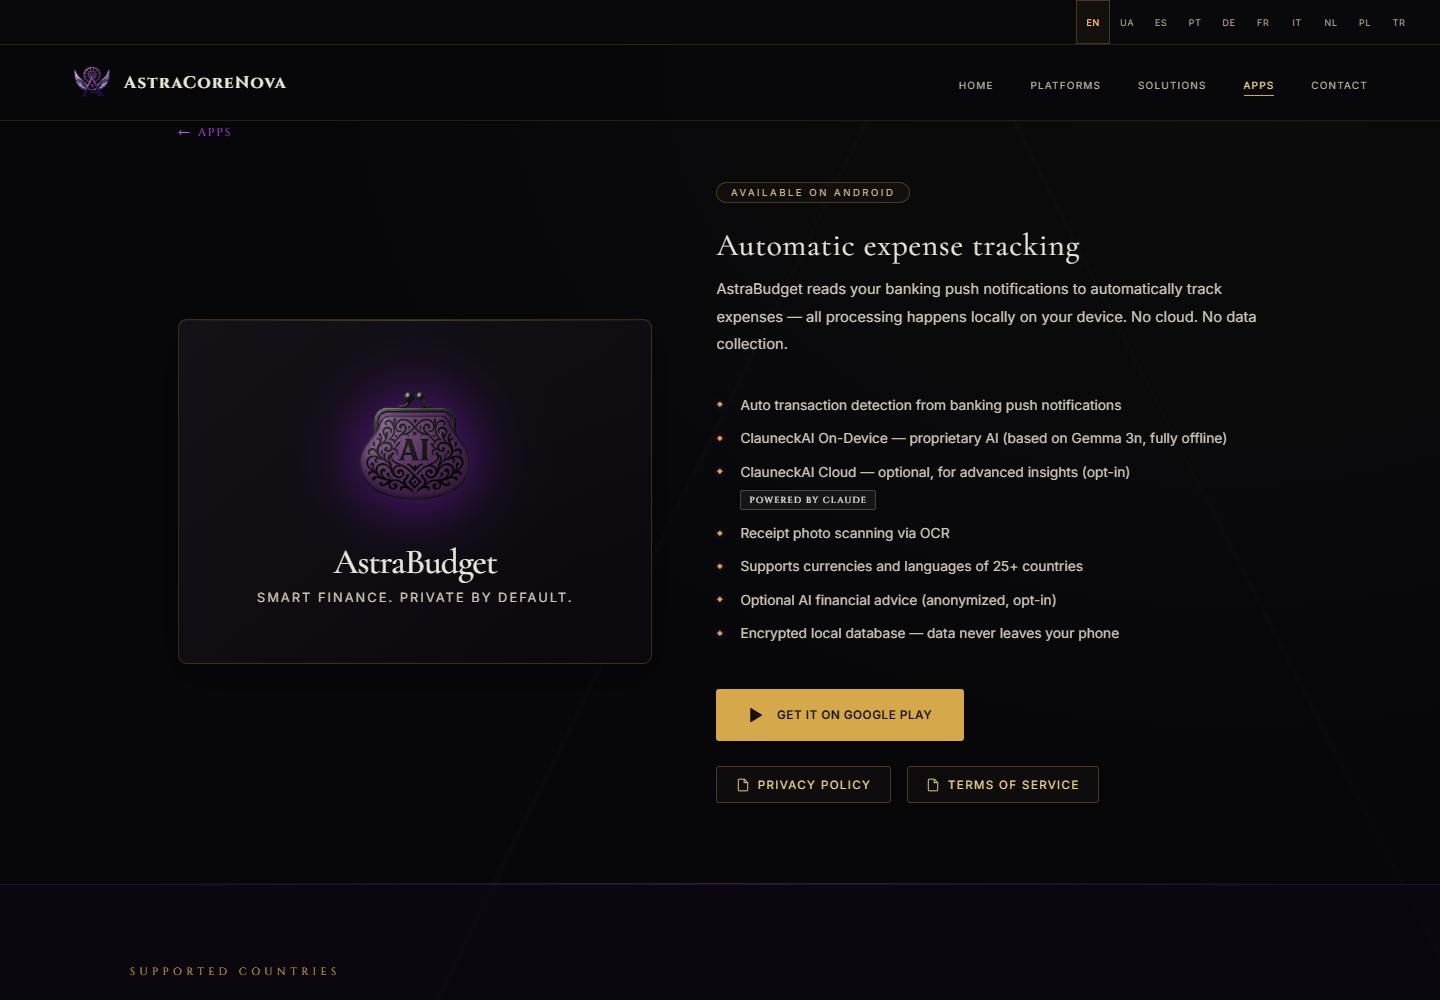
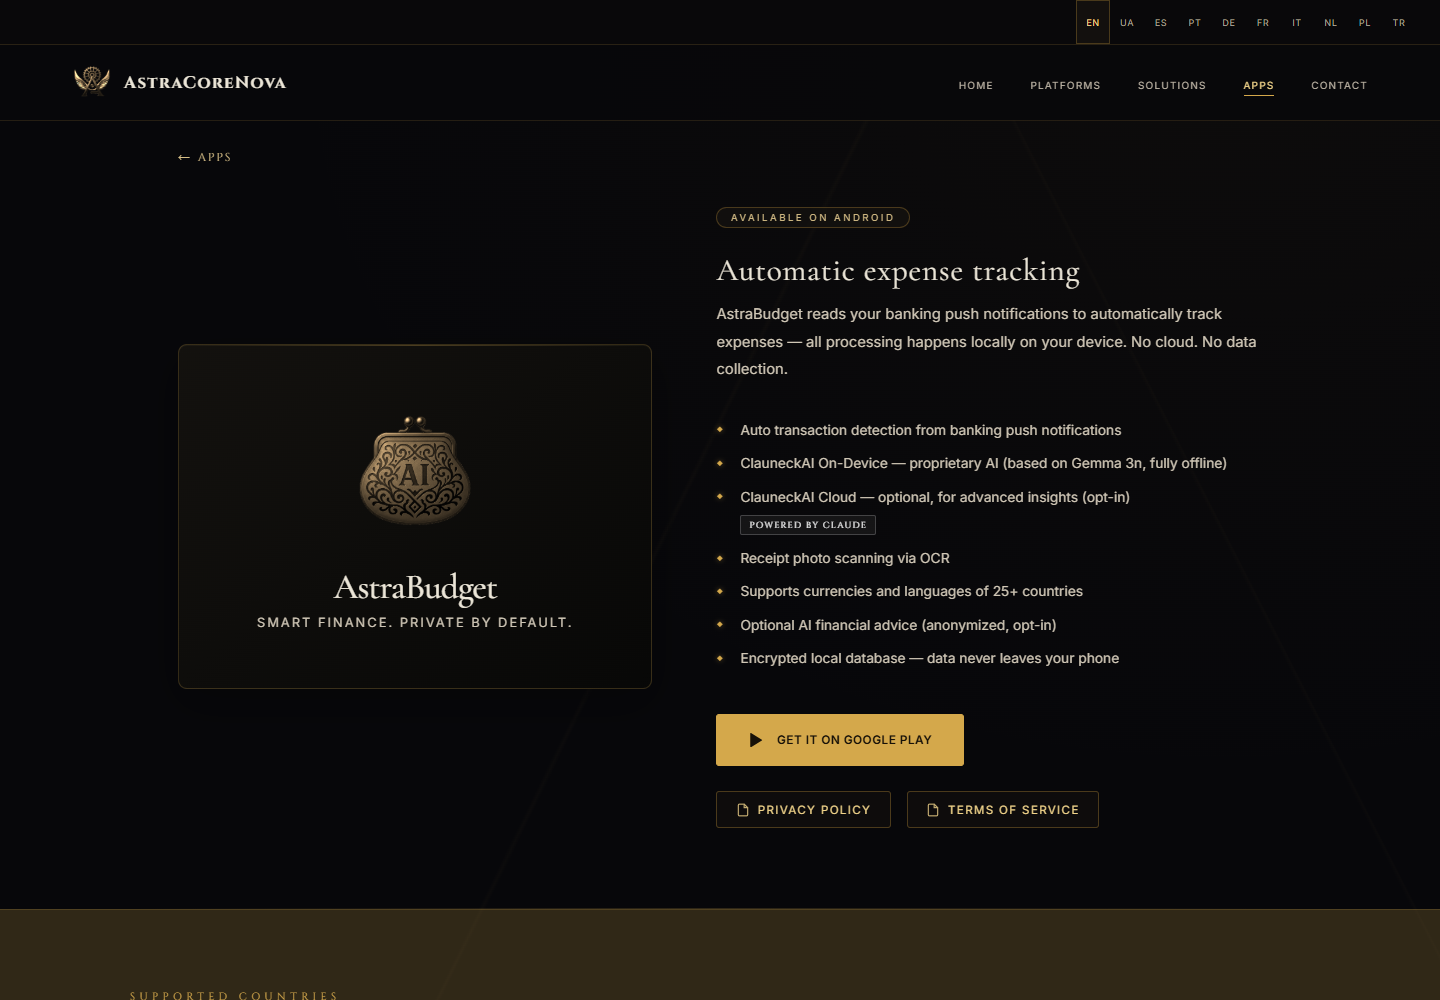
Finish antique gold palette and remove decorative hero emblem

diff --git a/site-style/legacy-gold.css b/site-style/legacy-gold.css
@@ -1,0 +1,93 @@
+/* Generated from original styles: color overrides only. Original files and legal content stay unchanged. */
+:root{--purple:#d4a84b!important;--glass:rgba(212, 168, 75, 0.65)!important;--glass-edge:rgba(212, 168, 75, 0.4)!important}
+.neb1{background-image:radial-gradient(circle, rgba(212, 168, 75, 0.1), transparent 70%)!important}
+.neb3{background-image:radial-gradient(rgba(212, 168, 75, 0.15), transparent 70%)!important}
+.lb:hover{border-top-color:rgba(212, 168, 75, 0.5)!important;border-right-color:rgba(212, 168, 75, 0.5)!important;border-bottom-color:rgba(212, 168, 75, 0.5)!important;border-left-color:rgba(212, 168, 75, 0.5)!important}
+.lb.on{border-top-color:rgba(212, 168, 75, 0.8)!important;border-right-color:rgba(212, 168, 75, 0.8)!important;border-bottom-color:rgba(212, 168, 75, 0.8)!important;border-left-color:rgba(212, 168, 75, 0.8)!important;background-color:rgba(212, 168, 75, 0.15)!important;text-shadow:rgba(212, 168, 75, 0.5) 0px 0px 8px!important}
+.nlogo img{filter:drop-shadow(rgba(212, 168, 75, 0.4) 0px 0px 12px)!important}
+.nlogo:hover img{filter:drop-shadow(rgba(212, 168, 75, 0.8) 0px 0px 20px)!important}
+.nlogo-t{text-shadow:rgba(212, 168, 75, 0.4) 0px 0px 18px!important}
+.nlinks a::after{background-color:rgba(212, 168, 75, 0.8)!important;box-shadow:rgba(212, 168, 75, 0.6) 0px 0px 8px!important}
+.mobile-menu a:hover{text-shadow:rgba(212, 168, 75, 0.6) 0px 0px 15px!important}
+.c-dark{background-color:rgba(212, 168, 75, 0.5)!important;border-top-color:rgba(212, 168, 75, 0.3)!important;border-right-color:rgba(212, 168, 75, 0.3)!important;border-bottom-color:rgba(212, 168, 75, 0.3)!important;border-left-color:rgba(212, 168, 75, 0.3)!important}
+.c-mid{background-color:rgba(212, 168, 75, 0.45)!important}
+.c-glow{background-color:rgba(212, 168, 75, 0.55)!important}
+.c-light{background-color:rgba(212, 168, 75, 0.4)!important}
+.hero-badge{border-top-color:rgba(212, 168, 75, 0.5)!important;border-right-color:rgba(212, 168, 75, 0.5)!important;border-bottom-color:rgba(212, 168, 75, 0.5)!important;border-left-color:rgba(212, 168, 75, 0.5)!important;background-color:rgba(212, 168, 75, 0.05)!important}
+.hero-badge .dot{background-color:rgba(212, 168, 75, 1)!important;box-shadow:rgba(212, 168, 75, 1) 0px 0px 10px!important}
+.hero-h .em{background-image:linear-gradient(135deg, rgb(255, 255, 255), rgba(212, 168, 75, 0.8))!important}
+.btn-p{background-image:linear-gradient(135deg, rgba(212, 168, 75, 0.95), rgba(212, 168, 75, 0.95))!important;border-top-color:rgba(212, 168, 75, 0.6)!important;border-right-color:rgba(212, 168, 75, 0.6)!important;border-bottom-color:rgba(212, 168, 75, 0.6)!important;border-left-color:rgba(212, 168, 75, 0.6)!important;box-shadow:rgba(212, 168, 75, 0.4) 0px 0px 30px!important}
+.btn-p:hover{background-image:linear-gradient(135deg, rgba(212, 168, 75, 0.95), rgba(212, 168, 75, 0.95))!important;box-shadow:rgba(212, 168, 75, 0.6) 0px 0px 50px!important;border-top-color:rgba(212, 168, 75, 0.8)!important;border-right-color:rgba(212, 168, 75, 0.8)!important;border-bottom-color:rgba(212, 168, 75, 0.8)!important;border-left-color:rgba(212, 168, 75, 0.8)!important}
+.btn-g{border-top-color:rgba(212, 168, 75, 0.4)!important;border-right-color:rgba(212, 168, 75, 0.4)!important;border-bottom-color:rgba(212, 168, 75, 0.4)!important;border-left-color:rgba(212, 168, 75, 0.4)!important;background-color:rgba(212, 168, 75, 0.5)!important}
+.btn-g:hover{border-top-color:rgba(212, 168, 75, 0.7)!important;border-right-color:rgba(212, 168, 75, 0.7)!important;border-bottom-color:rgba(212, 168, 75, 0.7)!important;border-left-color:rgba(212, 168, 75, 0.7)!important;background-color:rgba(212, 168, 75, 0.7)!important;box-shadow:rgba(212, 168, 75, 0.3) 0px 0px 20px!important}
+.div{background-image:linear-gradient(to right, transparent, rgba(212, 168, 75, 0.3), transparent)!important}
+.eyebrow{color:rgba(212, 168, 75, 1)!important}
+.glass{box-shadow:rgba(0, 0, 0, 0.8) 0px 8px 32px, rgba(212, 168, 75, 0.1) 0px 0px 15px inset!important}
+.glass::before{background-image:linear-gradient(to right, transparent, rgba(212, 168, 75, 0.5), transparent)!important}
+.glass::after{background-image:radial-gradient(circle at 50% -10%, rgba(212, 168, 75, 0.12), transparent 60%)!important}
+.pf:hover{border-top-color:rgba(212, 168, 75, 0.7)!important;border-right-color:rgba(212, 168, 75, 0.7)!important;border-bottom-color:rgba(212, 168, 75, 0.7)!important;border-left-color:rgba(212, 168, 75, 0.7)!important;box-shadow:rgba(0, 0, 0, 0.9) 0px 12px 40px, rgba(212, 168, 75, 0.25) 0px 0px 25px inset!important}
+.pf svg{filter:drop-shadow(rgba(212, 168, 75, 0.6) 0px 0px 12px)!important}
+.pf .emoji-icon{filter:grayscale(100%) contrast(150%) brightness(120%) drop-shadow(rgba(212, 168, 75, 0.6) 0px 0px 12px)!important}
+.pf-note b{text-shadow:rgba(212, 168, 75, 0.4) 0px 0px 8px!important}
+.sol:hover{border-top-color:rgba(212, 168, 75, 0.7)!important;border-right-color:rgba(212, 168, 75, 0.7)!important;border-bottom-color:rgba(212, 168, 75, 0.7)!important;border-left-color:rgba(212, 168, 75, 0.7)!important;box-shadow:rgba(0, 0, 0, 0.9) 0px 12px 40px, rgba(212, 168, 75, 0.15) 0px 0px 25px inset!important}
+.sol-tag{color:rgba(212, 168, 75, 1)!important}
+.sol-list li::before{color:rgba(212, 168, 75, 1)!important}
+.ai-points li::before{border-top-color:rgba(212, 168, 75, 1)!important;border-right-color:rgba(212, 168, 75, 1)!important;border-bottom-color:rgba(212, 168, 75, 1)!important;border-left-color:rgba(212, 168, 75, 1)!important;box-shadow:rgba(212, 168, 75, 0.5) 0px 0px 10px!important}
+.ai-orb-ring-1{border-top-color:rgba(212, 168, 75, 0.5)!important;border-right-color:rgba(212, 168, 75, 0.5)!important;border-bottom-color:rgba(212, 168, 75, 0.5)!important;border-left-color:rgba(212, 168, 75, 0.5)!important}
+.ai-orb-ring-2{filter:drop-shadow(rgba(212, 168, 75, 0.4) 0px 0px 10px)!important}
+.ai-orb-ring-2 polygon{stroke:rgba(212, 168, 75, 0.5)!important}
+.ai-orb-ring-3{border-top-color:rgba(212, 168, 75, 0.2)!important;border-right-color:rgba(212, 168, 75, 0.2)!important;border-bottom-color:rgba(212, 168, 75, 0.2)!important;border-left-color:rgba(212, 168, 75, 0.9)!important}
+.ai-orb-core{background-image:radial-gradient(circle at 40% 40%, rgba(212, 168, 75, 0.9), rgba(212, 168, 75, 0.95))!important;border-top-color:rgba(212, 168, 75, 0.7)!important;border-right-color:rgba(212, 168, 75, 0.7)!important;border-bottom-color:rgba(212, 168, 75, 0.7)!important;border-left-color:rgba(212, 168, 75, 0.7)!important;box-shadow:rgba(212, 168, 75, 0.6) 0px 0px 60px, rgba(0, 0, 0, 0.9) 0px 0px 25px inset!important}
+.ai-orb-core span{text-shadow:rgba(255, 255, 255, 0.9) 0px 0px 15px, rgba(212, 168, 75, 1) 0px 0px 10px!important}
+.vcard:hover{border-top-color:rgba(212, 168, 75, 0.7)!important;border-right-color:rgba(212, 168, 75, 0.7)!important;border-bottom-color:rgba(212, 168, 75, 0.7)!important;border-left-color:rgba(212, 168, 75, 0.7)!important;box-shadow:rgba(0, 0, 0, 0.9) 0px 12px 40px, rgba(212, 168, 75, 0.15) 0px 0px 25px inset!important}
+.vicon{stroke:rgba(212, 168, 75, 1)!important;filter:drop-shadow(rgba(212, 168, 75, 0.4) 0px 0px 8px)!important}
+.pnum{color:rgba(212, 168, 75, 1)!important;text-shadow:rgba(212, 168, 75, 0.5) 0px 0px 28px!important}
+.cemail{border-top-color:rgba(212, 168, 75, 0.5)!important;border-right-color:rgba(212, 168, 75, 0.5)!important;border-bottom-color:rgba(212, 168, 75, 0.5)!important;border-left-color:rgba(212, 168, 75, 0.5)!important;background-color:rgba(212, 168, 75, 0.4)!important;box-shadow:rgba(212, 168, 75, 0.2) 0px 0px 15px!important}
+.cemail:hover{background-color:rgba(212, 168, 75, 0.6)!important;border-top-color:rgba(212, 168, 75, 0.7)!important;border-right-color:rgba(212, 168, 75, 0.7)!important;border-bottom-color:rgba(212, 168, 75, 0.7)!important;border-left-color:rgba(212, 168, 75, 0.7)!important;box-shadow:rgba(212, 168, 75, 0.4) 0px 0px 25px!important}
+.inp{background-color:rgba(212, 168, 75, 0.5)!important;border-top-color:rgba(212, 168, 75, 0.4)!important;border-right-color:rgba(212, 168, 75, 0.4)!important;border-bottom-color:rgba(212, 168, 75, 0.4)!important;border-left-color:rgba(212, 168, 75, 0.4)!important}
+.inp:focus{border-top-color:rgba(212, 168, 75, 0.8)!important;border-right-color:rgba(212, 168, 75, 0.8)!important;border-bottom-color:rgba(212, 168, 75, 0.8)!important;border-left-color:rgba(212, 168, 75, 0.8)!important;box-shadow:rgba(212, 168, 75, 0.4) 0px 0px 20px, rgba(0, 0, 0, 0.5) 0px 2px 10px inset!important}
+.flogo img{filter:drop-shadow(rgba(212, 168, 75, 0.5) 0px 0px 10px)!important}
+.flinks a:hover{text-shadow:rgba(212, 168, 75, 0.5) 0px 0px 10px!important}
+::-webkit-scrollbar-thumb{background-color:rgba(212, 168, 75, 0.5)!important}
+.app-card.live:hover{border-top-color:rgba(212, 168, 75, 0.7)!important;border-right-color:rgba(212, 168, 75, 0.7)!important;border-bottom-color:rgba(212, 168, 75, 0.7)!important;border-left-color:rgba(212, 168, 75, 0.7)!important;box-shadow:rgba(0, 0, 0, 0.9) 0px 12px 40px, rgba(212, 168, 75, 0.25) 0px 0px 25px inset!important}
+.app-logo{filter:drop-shadow(rgba(212, 168, 75, 0.4) 0px 0px 15px)!important}
+.app-card.live:hover .app-logo{filter:drop-shadow(rgba(212, 168, 75, 0.7) 0px 0px 20px)!important}
+.app-logo-ph{border-top-color:rgba(212, 168, 75, 0.5)!important;border-right-color:rgba(212, 168, 75, 0.5)!important;border-bottom-color:rgba(212, 168, 75, 0.5)!important;border-left-color:rgba(212, 168, 75, 0.5)!important;color:rgba(212, 168, 75, 0.8)!important;box-shadow:rgba(212, 168, 75, 0.1) 0px 0px 10px inset!important}
+.st-live{background-color:rgba(212, 168, 75, 0.15)!important;border-top-color:rgba(212, 168, 75, 0.5)!important;border-right-color:rgba(212, 168, 75, 0.5)!important;border-bottom-color:rgba(212, 168, 75, 0.5)!important;border-left-color:rgba(212, 168, 75, 0.5)!important;box-shadow:rgba(212, 168, 75, 0.2) 0px 0px 10px!important}
+.app-tag{border-top-color:rgba(212, 168, 75, 0.3)!important;border-right-color:rgba(212, 168, 75, 0.3)!important;border-bottom-color:rgba(212, 168, 75, 0.3)!important;border-left-color:rgba(212, 168, 75, 0.3)!important}
+.app-go{color:rgba(212, 168, 75, 1)!important}
+.app-card.live:hover .app-go{text-shadow:rgba(212, 168, 75, 0.6) 0px 0px 8px!important}
+.model-card:hover{border-top-color:rgba(212, 168, 75, 0.7)!important;border-right-color:rgba(212, 168, 75, 0.7)!important;border-bottom-color:rgba(212, 168, 75, 0.7)!important;border-left-color:rgba(212, 168, 75, 0.7)!important;box-shadow:rgba(0, 0, 0, 0.9) 0px 12px 40px, rgba(212, 168, 75, 0.2) 0px 0px 35px inset!important}
+.sigil svg{filter:drop-shadow(rgba(212, 168, 75, 0.4) 0px 0px 10px)!important}
+.model-card:hover .sigil svg{filter:drop-shadow(rgba(212, 168, 75, 0.8) 0px 0px 20px)!important}
+.m-role{color:rgba(212, 168, 75, 1)!important}
+.m-tag{border-top-color:rgba(212, 168, 75, 0.3)!important;border-right-color:rgba(212, 168, 75, 0.3)!important;border-bottom-color:rgba(212, 168, 75, 0.3)!important;border-left-color:rgba(212, 168, 75, 0.3)!important}
+.breadcrumb a{color:rgba(212, 168, 75, 1)!important}
+.breadcrumb a:hover{text-shadow:rgba(212, 168, 75, 0.6) 0px 0px 8px!important}
+.ab-vis:hover{border-top-color:rgba(212, 168, 75, 0.7)!important;border-right-color:rgba(212, 168, 75, 0.7)!important;border-bottom-color:rgba(212, 168, 75, 0.7)!important;border-left-color:rgba(212, 168, 75, 0.7)!important;box-shadow:rgba(0, 0, 0, 0.9) 0px 12px 40px, rgba(212, 168, 75, 0.25) 0px 0px 25px inset!important}
+.ab-vis::after{background-image:radial-gradient(circle at 50% 0%, rgba(212, 168, 75, 0.12), transparent 60%)!important}
+.ab-logo{filter:drop-shadow(rgba(212, 168, 75, 0.6) 0px 0px 32px)!important}
+.ab-vis:hover .ab-logo{filter:drop-shadow(rgba(212, 168, 75, 0.9) 0px 0px 50px)!important}
+.ab-badge{border-top-color:rgba(212, 168, 75, 0.5)!important;border-right-color:rgba(212, 168, 75, 0.5)!important;border-bottom-color:rgba(212, 168, 75, 0.5)!important;border-left-color:rgba(212, 168, 75, 0.5)!important;background-color:rgba(212, 168, 75, 0.05)!important;box-shadow:rgba(212, 168, 75, 0.3) 0px 0px 10px!important}
+.ab-feats li::before{color:rgba(212, 168, 75, 1)!important;text-shadow:rgba(212, 168, 75, 0.5) 0px 0px 5px!important}
+.play-btn{background-image:linear-gradient(135deg, rgba(212, 168, 75, 0.95), rgba(212, 168, 75, 0.95))!important;border-top-color:rgba(212, 168, 75, 0.6)!important;border-right-color:rgba(212, 168, 75, 0.6)!important;border-bottom-color:rgba(212, 168, 75, 0.6)!important;border-left-color:rgba(212, 168, 75, 0.6)!important;box-shadow:rgba(212, 168, 75, 0.4) 0px 0px 30px!important}
+.play-btn:hover{background-image:linear-gradient(135deg, rgba(212, 168, 75, 0.95), rgba(212, 168, 75, 0.95))!important;box-shadow:rgba(212, 168, 75, 0.6) 0px 0px 50px!important;border-top-color:rgba(212, 168, 75, 0.8)!important;border-right-color:rgba(212, 168, 75, 0.8)!important;border-bottom-color:rgba(212, 168, 75, 0.8)!important;border-left-color:rgba(212, 168, 75, 0.8)!important}
+.doc-link{color:rgba(212, 168, 75, 1)!important;border-top-color:rgba(212, 168, 75, 0.5)!important;border-right-color:rgba(212, 168, 75, 0.5)!important;border-bottom-color:rgba(212, 168, 75, 0.5)!important;border-left-color:rgba(212, 168, 75, 0.5)!important;background-color:rgba(212, 168, 75, 0.4)!important}
+.doc-link:hover{background-color:rgba(212, 168, 75, 0.6)!important;border-top-color:rgba(212, 168, 75, 0.7)!important;border-right-color:rgba(212, 168, 75, 0.7)!important;border-bottom-color:rgba(212, 168, 75, 0.7)!important;border-left-color:rgba(212, 168, 75, 0.7)!important;box-shadow:rgba(212, 168, 75, 0.4) 0px 0px 15px!important}
+.countries-wrap{background-color:rgba(212, 168, 75, 0.2)!important;border-top-color:rgba(212, 168, 75, 0.2)!important;border-bottom-color:rgba(212, 168, 75, 0.2)!important}
+.ci:hover{border-top-color:rgba(212, 168, 75, 0.7)!important;border-right-color:rgba(212, 168, 75, 0.7)!important;border-bottom-color:rgba(212, 168, 75, 0.7)!important;border-left-color:rgba(212, 168, 75, 0.7)!important;box-shadow:rgba(0, 0, 0, 0.6) 0px 8px 25px, rgba(212, 168, 75, 0.2) 0px 0px 15px inset!important}
+.docs-tabs{border-top-color:rgba(212, 168, 75, 0.4)!important;border-right-color:rgba(212, 168, 75, 0.4)!important;border-bottom-color:rgba(212, 168, 75, 0.4)!important;border-left-color:rgba(212, 168, 75, 0.4)!important}
+.docs-tab:not(:last-child){border-right-color:rgba(212, 168, 75, 0.4)!important}
+.docs-tab:hover{background-color:rgba(212, 168, 75, 0.15)!important;text-shadow:rgba(212, 168, 75, 0.5) 0px 0px 10px!important}
+.docs-tab.active{background-color:rgba(212, 168, 75, 0.2)!important;border-bottom-color:rgba(212, 168, 75, 1)!important;text-shadow:rgba(212, 168, 75, 0.5) 0px 0px 10px!important}
+.pdf-toolbar{border-bottom-color:rgba(212, 168, 75, 0.4)!important}
+.pdf-download{color:rgba(212, 168, 75, 1)!important;border-top-color:rgba(212, 168, 75, 0.5)!important;border-right-color:rgba(212, 168, 75, 0.5)!important;border-bottom-color:rgba(212, 168, 75, 0.5)!important;border-left-color:rgba(212, 168, 75, 0.5)!important;background-color:rgba(212, 168, 75, 0.4)!important}
+.pdf-download:hover{background-color:rgba(212, 168, 75, 0.6)!important;border-top-color:rgba(212, 168, 75, 0.7)!important;border-right-color:rgba(212, 168, 75, 0.7)!important;border-bottom-color:rgba(212, 168, 75, 0.7)!important;border-left-color:rgba(212, 168, 75, 0.7)!important;box-shadow:rgba(212, 168, 75, 0.4) 0px 0px 15px!important}
+.hero-logo{filter:drop-shadow(rgba(212, 168, 75, 0.5) 0px 0px 18px)!important}
+.btn-primary{background-color:rgba(212, 168, 75, 0.18)!important;border-top-color:rgba(212, 168, 75, 0.65)!important;border-right-color:rgba(212, 168, 75, 0.65)!important;border-bottom-color:rgba(212, 168, 75, 0.65)!important;border-left-color:rgba(212, 168, 75, 0.65)!important}
+.btn-primary:hover{background-color:rgba(212, 168, 75, 0.32)!important;box-shadow:rgba(212, 168, 75, 0.4) 0px 0px 20px!important}
+.btn-ghost:hover{border-top-color:rgba(212, 168, 75, 0.6)!important;border-right-color:rgba(212, 168, 75, 0.6)!important;border-bottom-color:rgba(212, 168, 75, 0.6)!important;border-left-color:rgba(212, 168, 75, 0.6)!important}
+.legal a{color:rgba(212, 168, 75, 1)!important}
+.box{border-left-color:rgba(212, 168, 75, 0.75)!important;background-color:rgba(212, 168, 75, 0.07)!important}
+.legal th{color:rgba(212, 168, 75, 1)!important}
+@media (max-width: 860px){.legal td::before{color:rgba(212, 168, 75, 1)!important}}

diff --git a/site-style/style.css b/site-style/style.css
@@ -1,3 +1,4 @@
+@import url('legacy-gold.css');
 @font-face{font-family:Inter;src:url('fonts/inter-latin.woff2') format('woff2');font-weight:100 900;font-display:swap;unicode-range:U+0000-00FF,U+2000-206F,U+20AC,U+2122}
 @font-face{font-family:Inter;src:url('fonts/inter-cyrillic.woff2') format('woff2');font-weight:100 900;font-display:swap;unicode-range:U+0400-052F,U+1C80-1C8A,U+2DE0-2DFF,U+A640-A69F}
 @font-face{font-family:Cormorant;src:url('fonts/cormorant-latin.woff2') format('woff2');font-weight:400 700;font-display:swap}
@@ -52,7 +53,7 @@ body>.wrap{padding-top:calc(var(--language-height) + 130px)!important}
 .ab-dtitle{font-family:Cormorant,Georgia,serif!important;font-size:31px!important;color:#ece6d8!important}
 .ab-feats li::before,.feat-list li::before,.feature-list li::before,.af-icon{color:#d4a84b!important}
 .docs-wrap,.doc-panel,.legal-section{background:#0c0b0e!important;border-color:#d4a84b30!important;box-shadow:none!important}
-.docs-tab{font-family:Inter,Arial,sans-serif!important;color:#b5ad9e!important;background:#0d0b0e!important;border-color:#d4a84b25!important}
+.docs-tab{font-family:Inter,Arial,sans-serif!important;color:#b5ad9e!important;background:#100e0a!important;border-color:#d4a84b25!important}
 .docs-tab.active,.docs-tab:hover{color:#f1d48a!important;background:#211b10!important;border-color:#d4a84b80!important;box-shadow:none!important}
 .pdf-toolbar{background:#15120e!important;border-color:#d4a84b30!important}.pdf-download{background:#d4a84b!important;color:#171108!important;border-color:#d4a84b!important;box-shadow:none!important}
 .legal-section a{color:#e1c887!important}.legal-section h2,.legal-section h3{color:#ece6d8!important}.legal-section p,.legal-section li{line-height:1.85!important}
@@ -68,3 +69,21 @@ html.apps-animate .legal-section.rev{opacity:1!important;transform:none!importan
 @media(max-width:900px){body>nav{padding-inline:24px!important}.nlinks{gap:20px!important}.nlogo-t{font-size:14px!important}.nlogo img{height:34px!important}}
 @media(max-width:600px){.lbar{padding-inline:10px!important}.lb{min-width:34px;padding-inline:3px!important;font-size:8px!important}body>nav{padding:12px 20px!important;min-height:70px}.nlogo-t{font-size:12px!important}.nlogo img{height:30px!important}.nlogo{gap:8px!important}.hero{padding-inline:24px!important}.hero h1{font-size:49px!important}.ptitle{font-size:45px!important}.stitle{font-size:37px!important}.app-grid{grid-template-columns:1fr!important;gap:18px!important}.app-card{padding:24px!important}.app-name{font-size:21px!important}.app-desc{font-size:12px!important}.legal-section{padding:25px 19px!important}.pdf-frame{min-height:520px!important}.pdf-title{font-size:10px!important}.pdf-download{font-size:9px!important}body>.wrap{padding-inline:23px!important}.hero-name,.ab-name{font-size:47px!important}.ab-dtitle{font-size:27px!important}}
 @media(prefers-reduced-motion:reduce){html{scroll-behavior:auto}*,*::before,*::after{animation:none!important;transition:none!important}html.apps-animate .rev:not(.on){opacity:1!important;transform:none!important}}
+/* The mobile-app studio keeps its original logo files; presentation uses antique gold. */
+img[src$=".png"],.nlogo img,.nlogo:hover img,.flogo img,.app-logo,.app-icon img,.ab-logo,.ab-vis:hover .ab-logo{filter:grayscale(1) sepia(1) saturate(1.4) hue-rotate(355deg) brightness(1.15)!important}
+.hero-logo-wrap{display:none!important}
+.hero{min-height:calc(100svh - 35px)!important;justify-content:center;padding-bottom:80px!important}
+.hero-h{max-width:1050px!important;margin-inline:auto!important}
+.hero-h .em{background:none!important;-webkit-text-fill-color:#e8dfcd!important;color:#e8dfcd!important}
+.hero-badge{border-radius:2px!important;margin-bottom:32px!important;letter-spacing:.22em!important}
+.glass{background:linear-gradient(140deg,#14120ff5,#080807f5)!important}
+.vicon{stroke:#d4a84b!important;filter:none!important}
+.ai-orb-core{background:radial-gradient(circle at 38% 32%,#514022,#17130c 68%)!important;border-color:#a9884b!important;box-shadow:inset 0 1px 16px #d4a84b18,0 0 35px #d4a84b10!important;animation:none!important}
+.ai-orb-core span{text-shadow:none!important}.ai-orb-ring-2{filter:none!important}
+.ai-orb-ring-2 polygon{stroke:#a9884b!important}
+.cemail,.cemail:hover{background:#15120b!important;border-color:#8a6a2a80!important;box-shadow:none!important;color:#f1d48a!important}
+.breadcrumb{padding-top:calc(var(--language-height) + 100px)!important}
+.breadcrumb a,.breadcrumb a:hover{color:#d7bf87!important;text-shadow:none!important}
+.app-card:hover,.ab-vis:hover,.vcard:hover{box-shadow:0 18px 40px #0007!important}
+.app-card::before{height:1px!important;background:linear-gradient(90deg,#d4a84b77,transparent 75%)!important}
+@media(max-width:600px){.hero{min-height:auto!important;padding-top:calc(var(--language-height) + 125px)!important;padding-bottom:64px!important}.hero h1{font-size:47px!important;line-height:1.08!important}.hero-badge{font-size:8px!important;letter-spacing:.15em!important;padding:8px 12px!important}.hero p{font-size:13px!important;line-height:1.9!important}.hero-btns{gap:12px!important}.breadcrumb{padding-inline:23px!important}}

diff --git a/docs/review-notes.md b/docs/review-notes.md
@@ -4,6 +4,8 @@ The branch starts at main `f2e20f4da0dcaacbfb723e071ebb319820ac8236`. Publishing
 
 Six existing pages receive only a stylesheet link and a small presentation script. Removing those two tags restores the exact original HTML bytes, including translations, links, scripts, anchors, legal text and contacts. Existing logo files remain unchanged. No new WebGL, 3D library or business-site links are introduced.
 
+The approved follow-up removes the large decorative hero emblem and renders original logo images with an antique-gold CSS filter. Remaining legacy violet accents are mapped to gold in `site-style/legacy-gold.css`; original image bytes are preserved. Browser checks also verify that rendered HTML styles contain no violet accents and the hero emblem stays hidden.
+
 Run from the repository root:
 
 ```powershell
